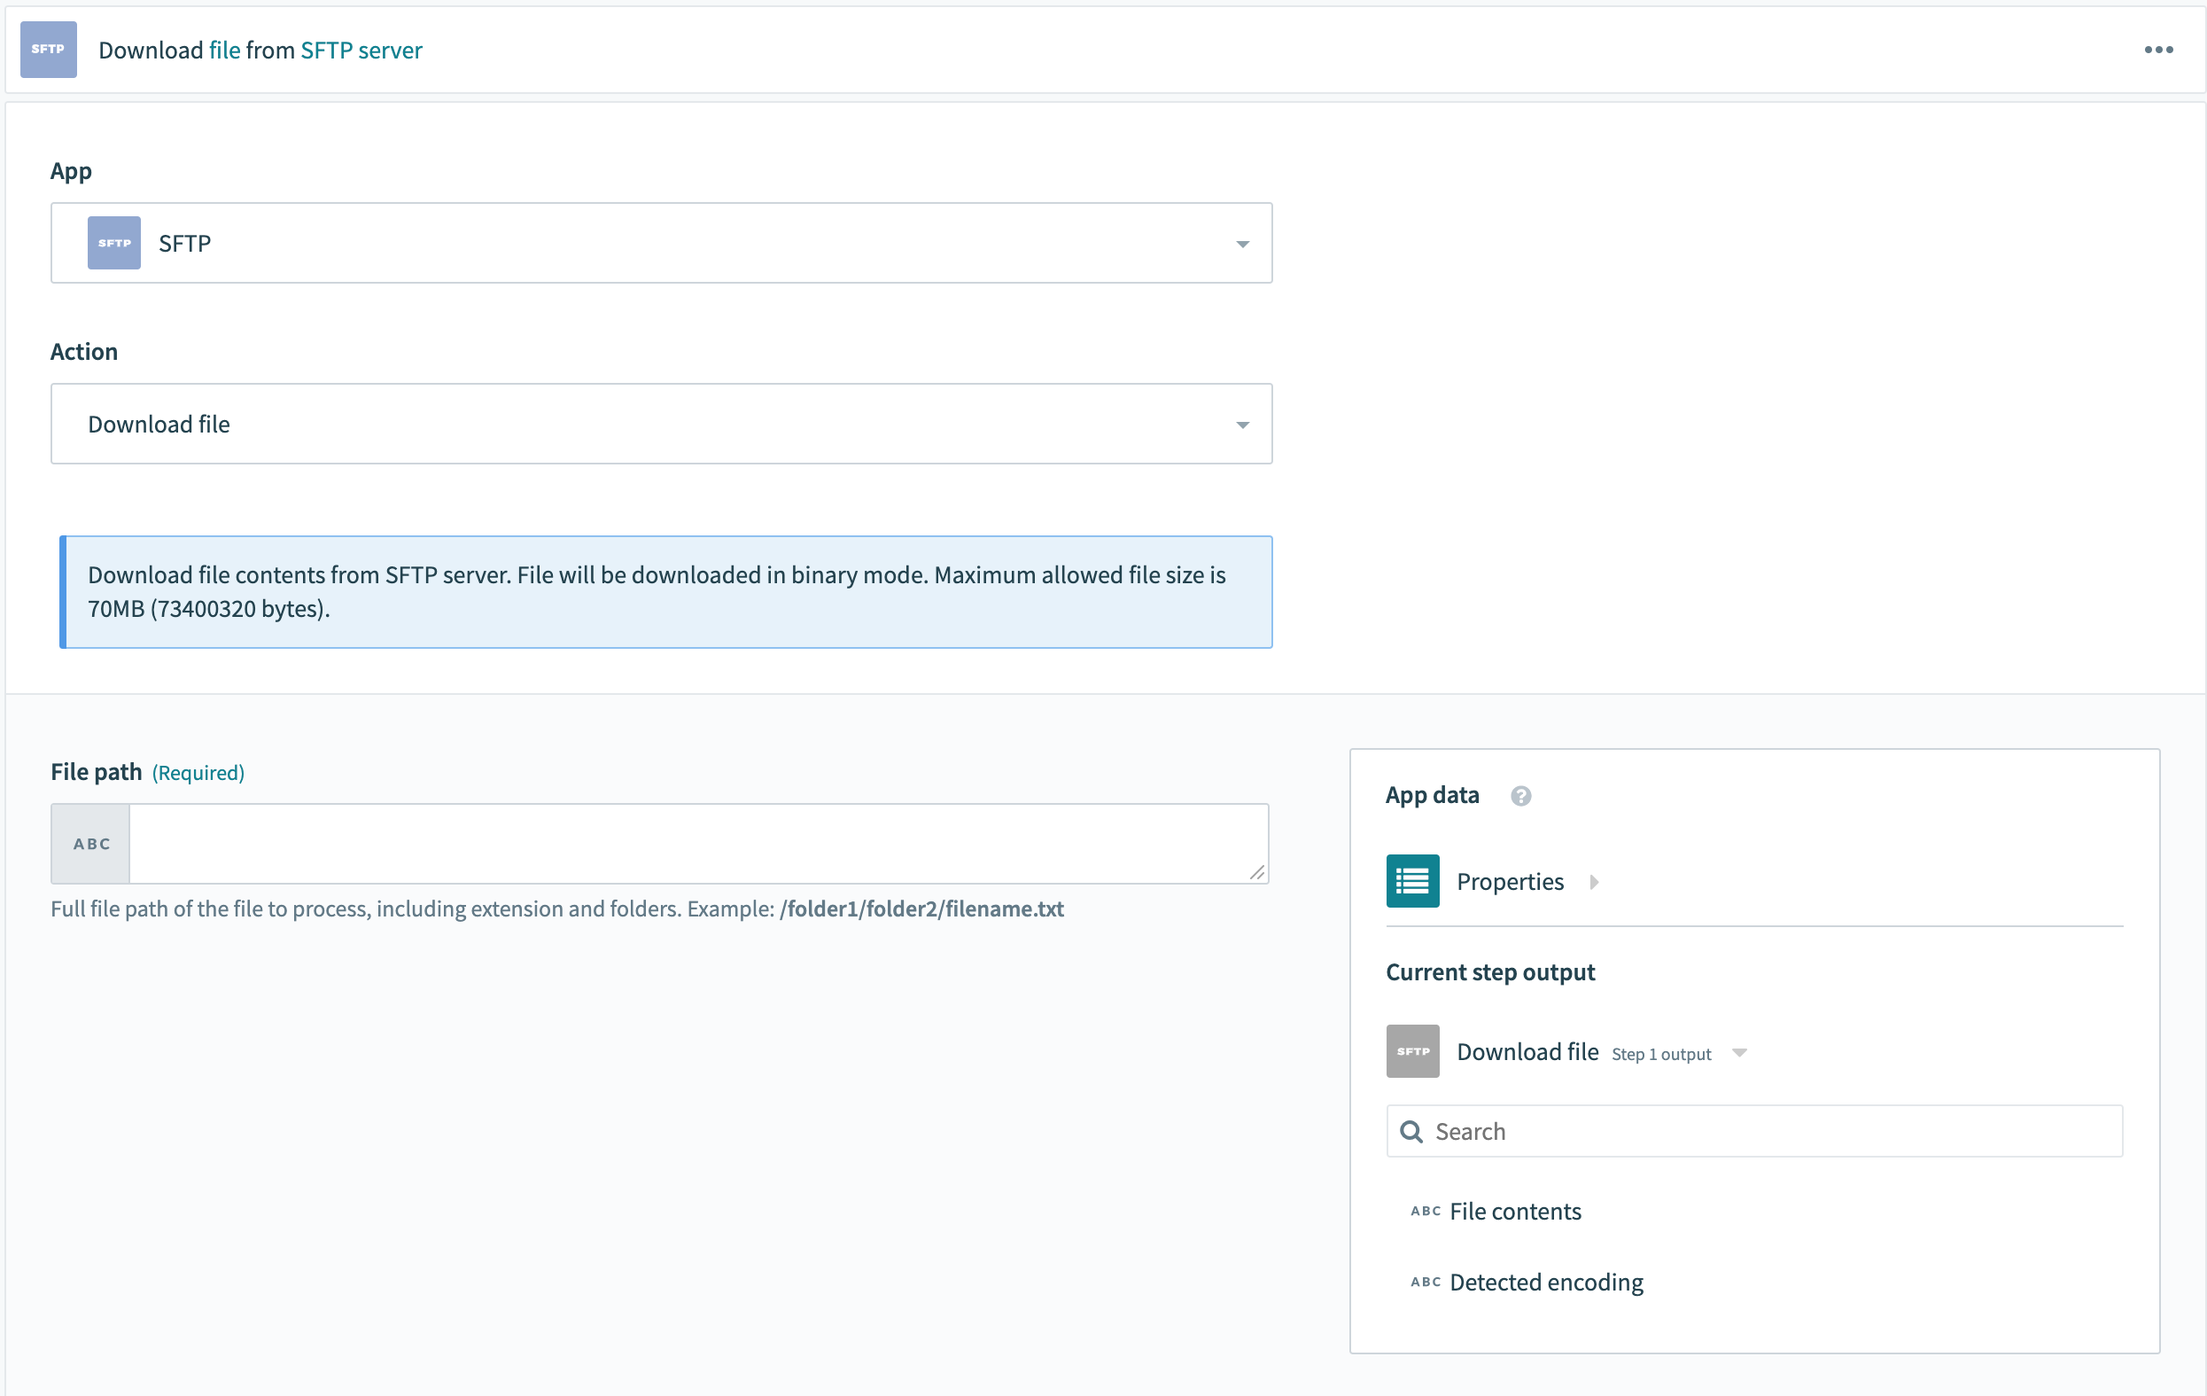
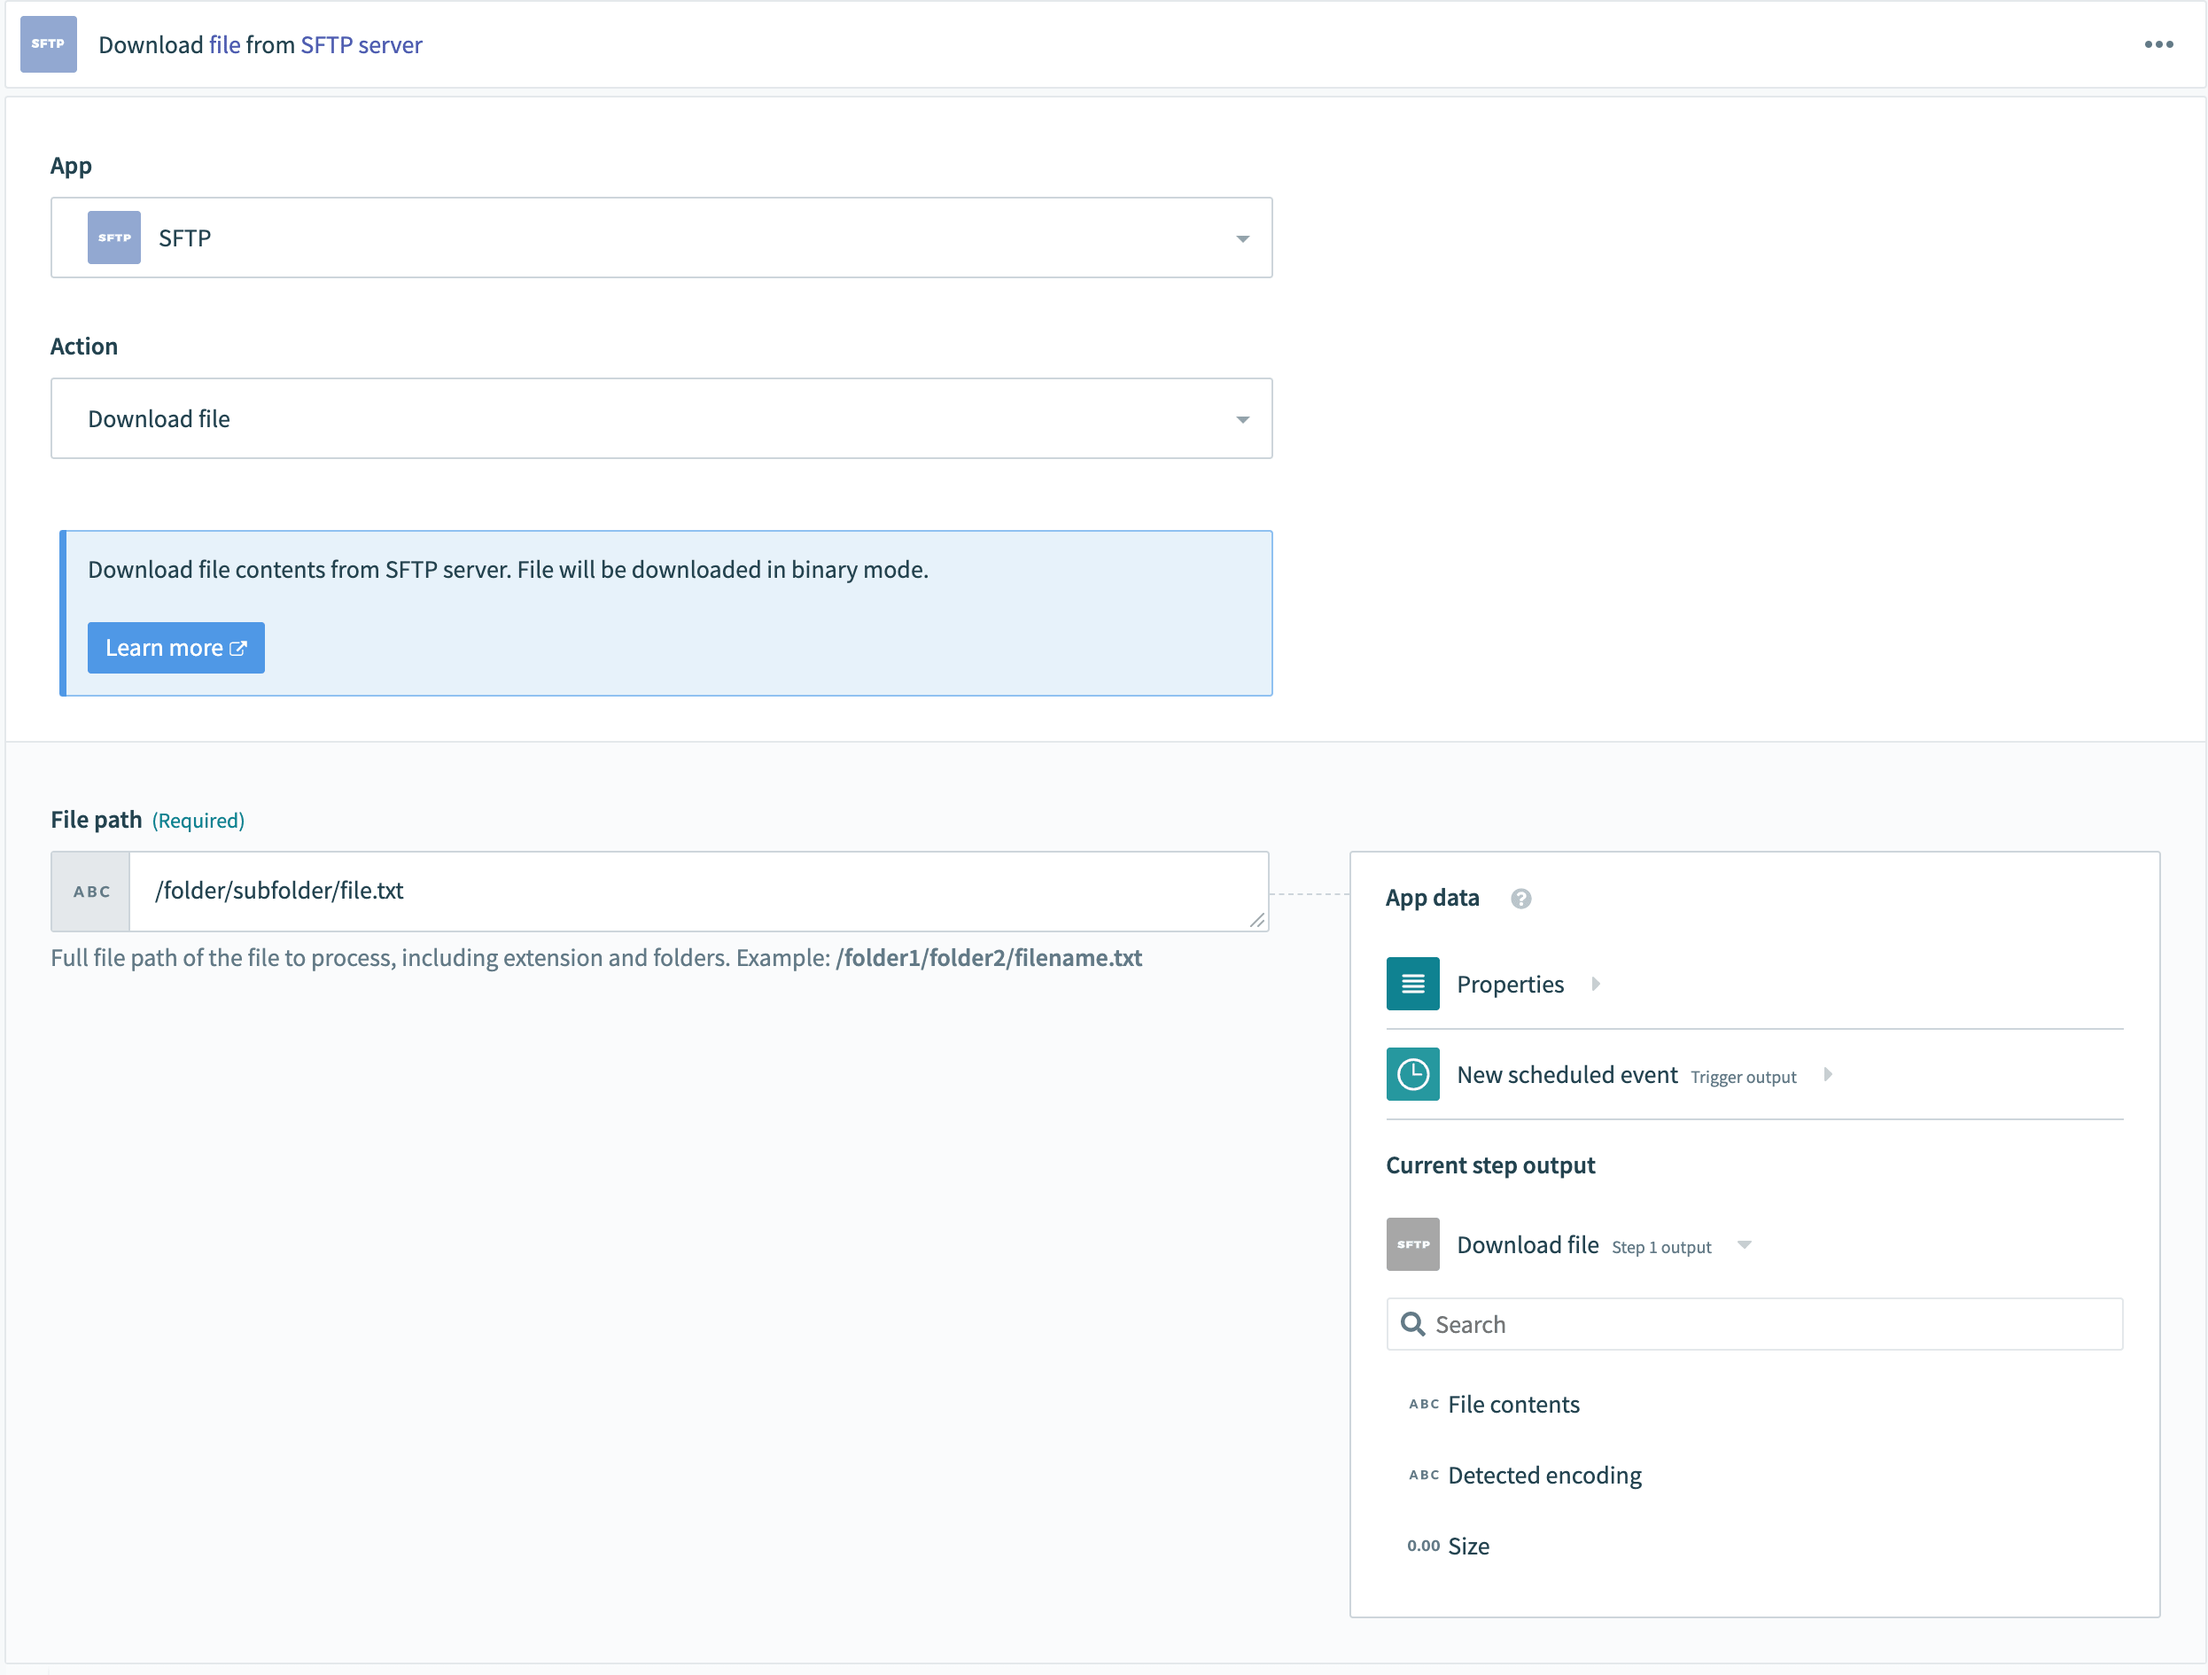
update sftp download doc

diff --git a/connectors/sftp/download-file-action.md b/connectors/sftp/download-file-action.md
@@ -5,9 +5,13 @@ date: 2019-10-15 09:00:00 Z
 
 # Download file action
 
-This action downloads a file from your SFTP server. The file contents can be used in subsequent recipe steps. This action cannot be used to download entire folders. 
+This action downloads a file from your SFTP server. This cannot be used to download entire folders. 
 
-The size limit for this action is 70MB. The file will be downloaded in binary mode.
+The file contents will be downloaded in binary mode and can be used in subsequent recipe steps. 
+
+When downloading large files, Workato will split the file contents into chunks and download them across separate requests. The time it takes to process this action depends on the file size and the download speed. This means that larger files will take more time to process, leading to longer job processing time.
+
+There is a timeout limit of **180 seconds** for this action. See here for more information on [timeouts on jobs and actions](/recipes/recipe-job-errors.md#timeouts). 
 
 ![Download file action](/assets/images/connectors/sftp/download-file-action.png)
 *Download file action*
@@ -26,3 +30,4 @@ The output of this action is a **list of entries**. Each entry contains the foll
 | ----------------- | ------------------------- |
 | File content      | The contents of the file. |
 | Detected encoding | The encoding of the file. |
+| Size              | The size of the file.     |
